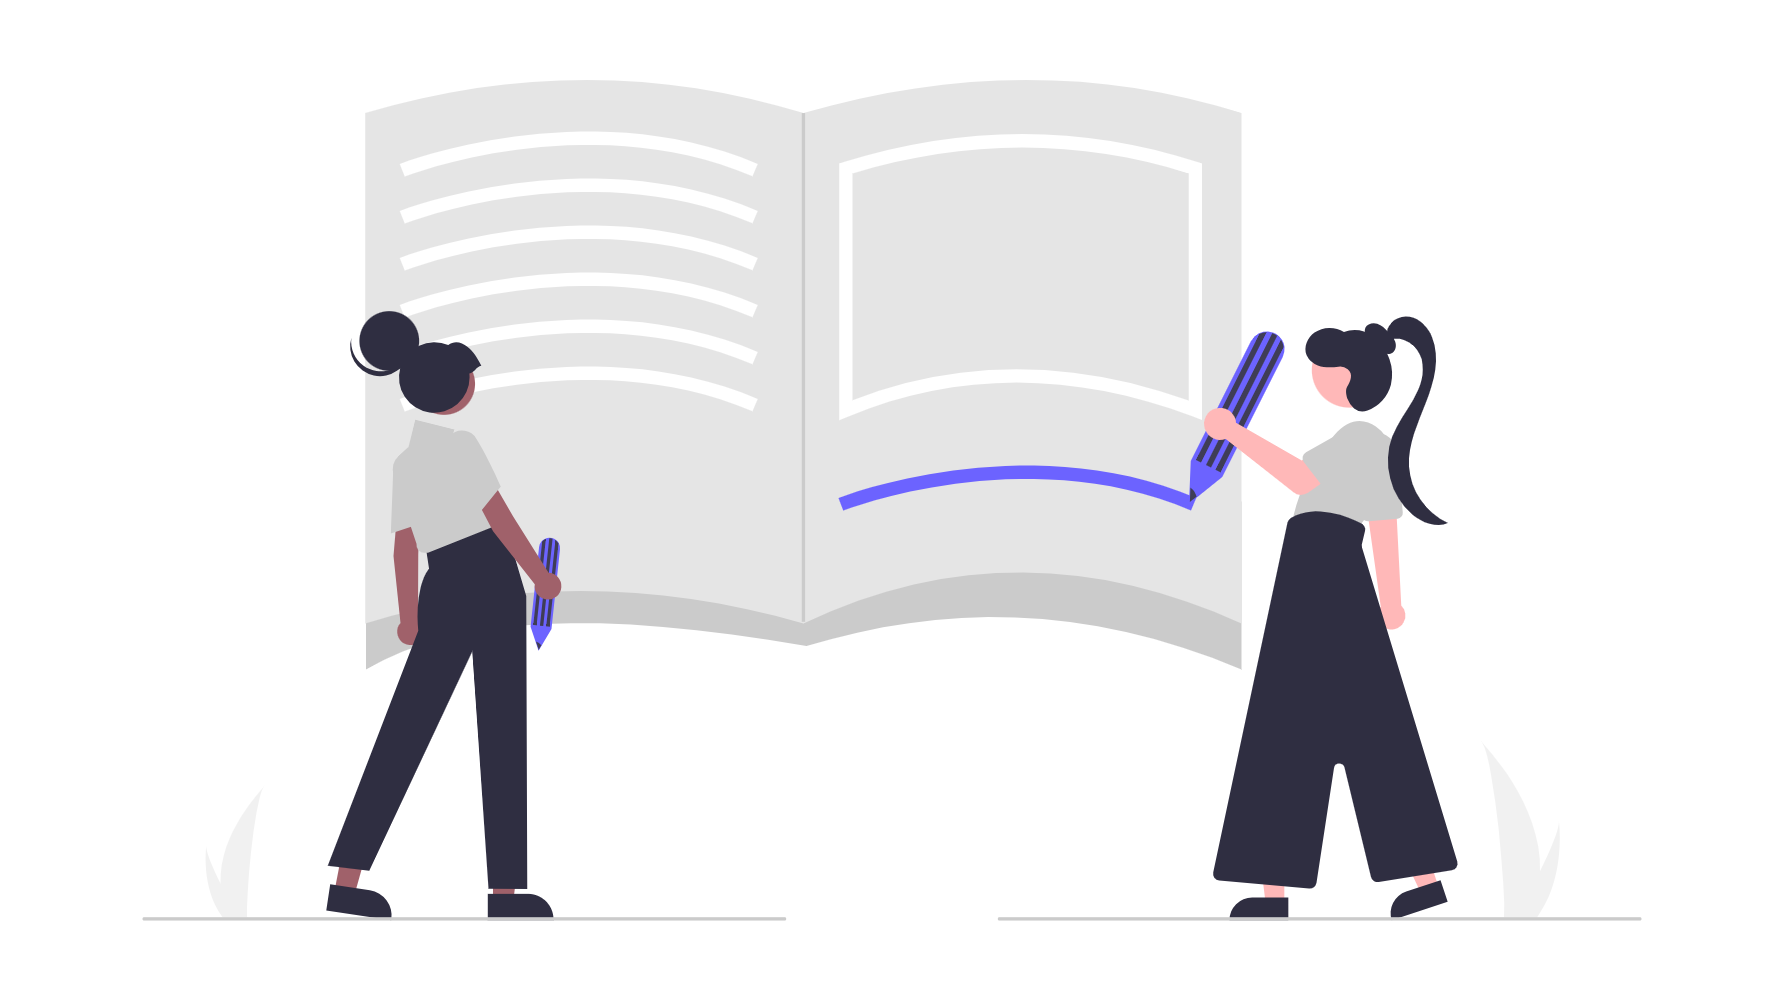
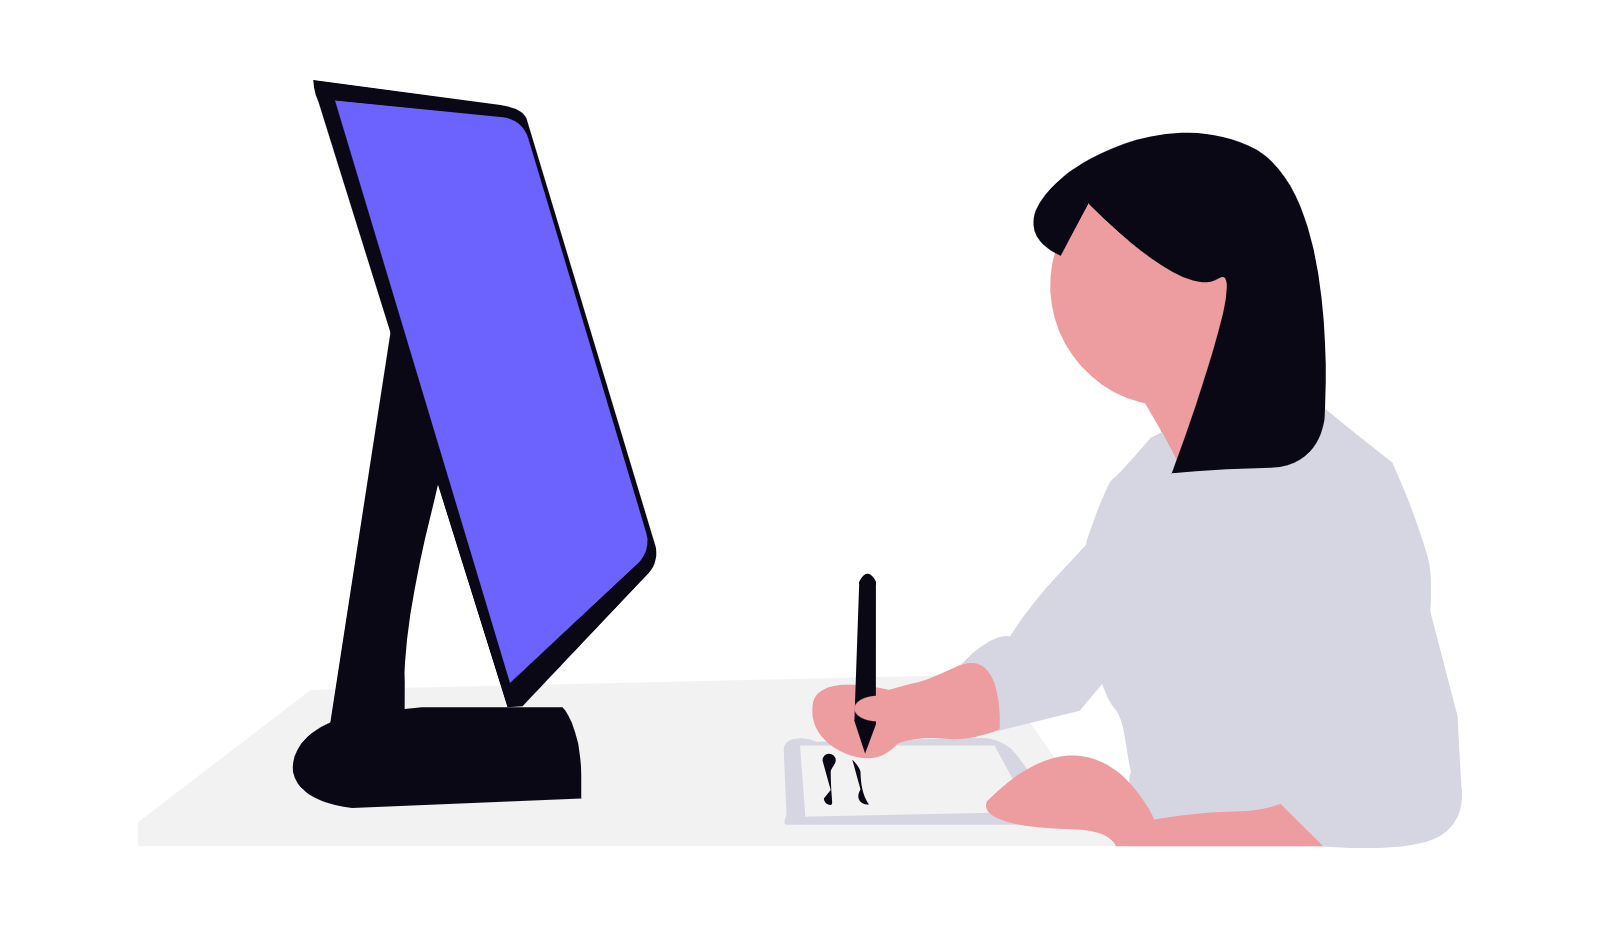
Last bad workflow

diff --git a/css/accueil.css b/css/accueil.css
@@ -14,7 +14,7 @@ body {
 
 .navbar nav {
     width: 100%;
-    padding: 1rem 5%;
+    padding: 1rem 7%;
     background: #2171B5;
     display: flex;
     align-items: center;
@@ -35,7 +35,7 @@ body {
 .btns {
     display: flex;
     align-items: center;
-    gap: 15px;
+    gap: 10px;
 }
 
 .btn {
@@ -46,7 +46,6 @@ body {
     color: #2171B5;
     border: none;
     cursor: pointer;
-    transition: background 0.3s;
 }
 
 .btn:hover {
@@ -76,7 +75,7 @@ body {
 
 .hero-container {
     width: 100%;
-    padding: 2rem 5%;
+    padding: 2rem 7%;
     display: flex;
     align-items: center;
     justify-content: space-between;
@@ -87,7 +86,7 @@ body {
 }
 
 .hero-text h1 {
-    font-size: 2.6rem;
+    font-size: clamp(1.5rem, 4vw, 2.6rem);
     font-weight: 700;
     color: #0f172a;
     margin-bottom: 1rem;
@@ -102,7 +101,7 @@ body {
 .hero-buttons {
     margin-top: 24px;
     display: flex;
-    gap: 15px;
+    gap: 10px;
 }
 
 .btn-hero {
@@ -151,6 +150,6 @@ body {
     }
 
     .hero-image {
-        margin-top: 2rem;
+        margin-top: 4rem;
     }
 }

diff --git a/css/authentication.css b/css/authentication.css
@@ -179,7 +179,7 @@ h1 {
 
 span {
     color: #BDD7E7;
-    font-style: italic;
+    /* font-style: italic; */
 }
 
 h4 {

diff --git a/index.php b/index.php
@@ -12,7 +12,7 @@
 <body>
     <header class="navbar">
         <nav>
-            <div class="logo">note<span class="second">me</span></div>
+            <div class="logo">note<span class="second">me</span>.</div>
 
             <div class="btns">
                 <button class="btn">Login</button>
